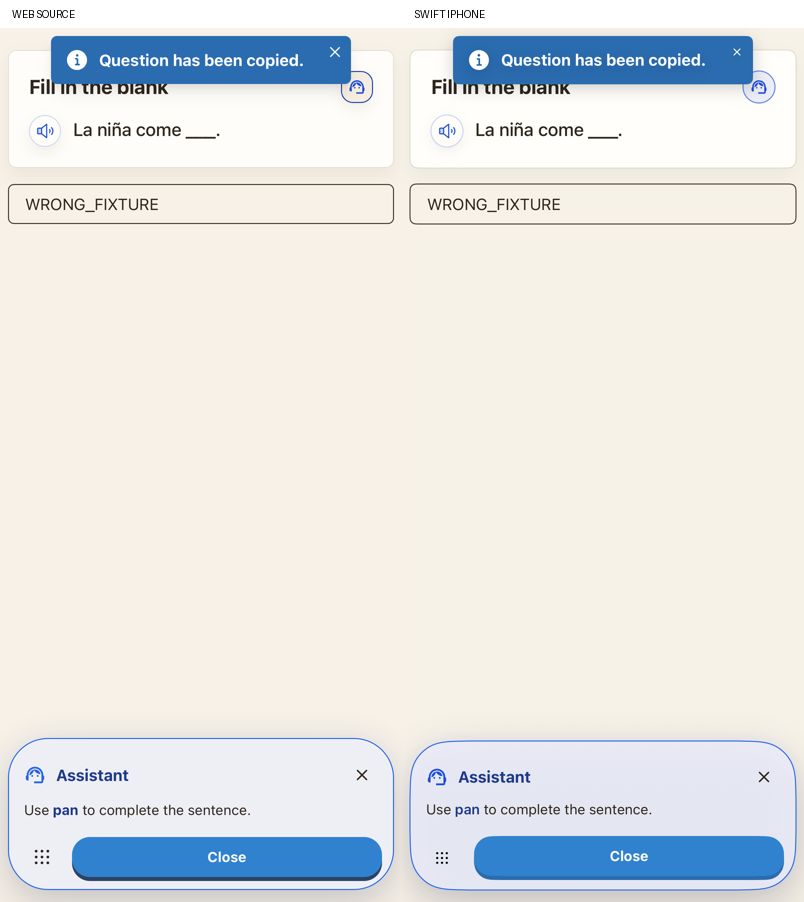
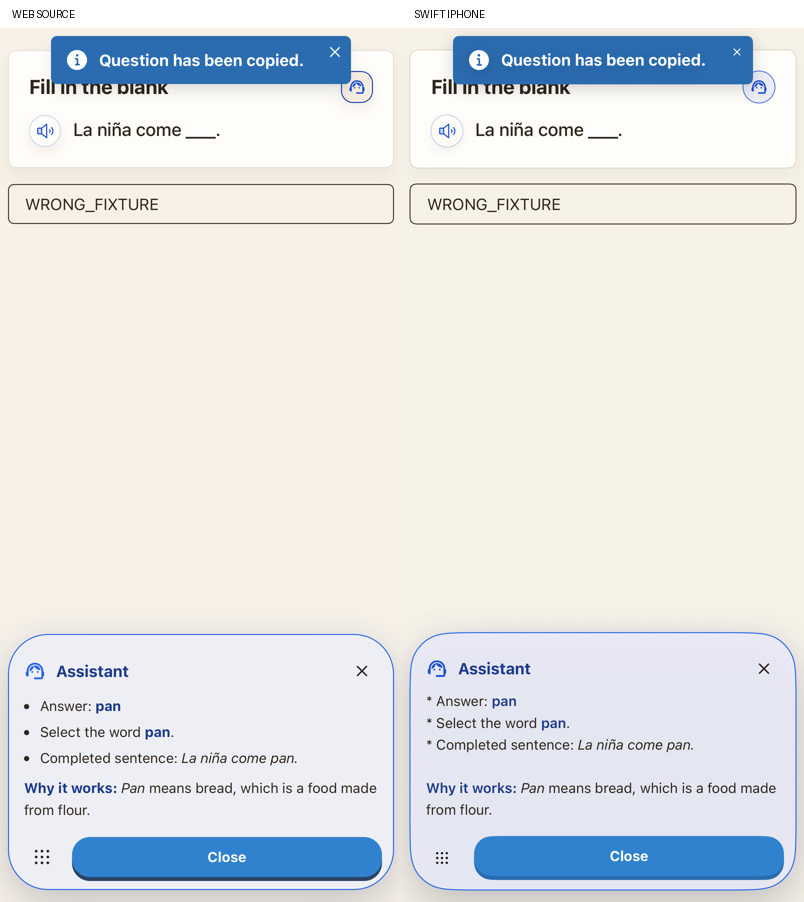
Verify assistance rendering with exercise-specific provider replies

diff --git a/Tests/PiyaliAppTests/StandardBodyReferenceTests.swift b/Tests/PiyaliAppTests/StandardBodyReferenceTests.swift
@@ -23,9 +23,10 @@ import WebKit
         let env=ProcessInfo.processInfo.environment;guard env["PIYALI_OFFLINE_TESTS"] == "1",env["PIYALI_REFERENCE_PREVIEW_TESTS"] == "1",UUID(uuidString:env["PIYALI_TEST_IDENTITY_SCOPE"] ?? "") != nil else{throw XCTSkip("Isolated source preview required")}
         let url=try XCTUnwrap(Bundle(for:Self.self).url(forResource:"standard-bodies",withExtension:"json")),samples=try JSONDecoder().decode(Piyali.JSONValue.self,from:Data(contentsOf:url)),app=AppModel(progressService:StandardReferenceNoCloud());try app.identity.create();defer{try? app.identity.disconnect()};app.signedIn=true;app.subscription.bind(app.identity)
         let curriculum=try ContentLibrary.load([String:[LearningUnit]].self,name:"curriculum-es"),lesson=try XCTUnwrap(curriculum["Pre-A1"]?.first?.lessons.first)
+        let liveURL=try XCTUnwrap(Bundle(for:Self.self).url(forResource:"standard-help-live",withExtension:"json")),live=try JSONDecoder().decode(Piyali.JSONValue.self,from:Data(contentsOf:liveURL))
         for(module,variant,state,language)in [(PracticeRecipeModule.grammar,"fill","assistant","en"),(.vocabulary,"fill","assistant","ar"),(.grammar,"match","assistant","ar"),(.vocabulary,"ma-buttons","explanation","en")]{
             app.learner=LearnerState();app.learner.target="es";app.learner.support=language;app.learner.onboardingComplete=true;app.activityFooter=nil;app.activityFooterHeight=0
-            let text=language == "ar" ? "استخدم **pan** لإكمال الجملة.":"Use **pan** to complete the sentence.",sample=samples[module.rawValue][variant],q=try PracticeQuestion(module:module,kind:sample["kind"].string,payload:sample["question"],options:.object(["cefrLevel":.string("A1")]),target:"es",support:language);var run=PracticeRun(question:q,lessonID:lesson.id,lessonLevel:"Pre-A1",response:sample["responses"]["partial"]);if q.kind == "match"{run.rightOrder=[2,0,1]};if state == "explanation"{run.correct=false;run.lastMissedAnswer=run.answerText;run.lastMissedResponse=run.response};app.learner.savePractice(run)
+            let key=module.rawValue+" "+variant+" "+state+" "+language,text=live["outputs"][key].string.isEmpty ? "استخدم **pan** لإكمال الجملة.":live["outputs"][key].string,sample=samples[module.rawValue][variant],q=try PracticeQuestion(module:module,kind:sample["kind"].string,payload:sample["question"],options:.object(["cefrLevel":.string("A1")]),target:"es",support:language);var run=PracticeRun(question:q,lessonID:lesson.id,lessonLevel:"Pre-A1",response:sample["responses"]["partial"]);if q.kind == "match"{run.rightOrder=[2,0,1]};if state == "explanation"{run.correct=false;run.lastMissedAnswer=run.answerText;run.lastMissedResponse=run.response};app.learner.savePractice(run)
             let helper=PracticeAssistanceController(writer:{_,_ in text}),encoded=try XCTUnwrap(text.addingPercentEncoding(withAllowedCharacters:.urlQueryAllowed.subtracting(CharacterSet(charactersIn:"&+"))));try await compare(name:"\(module.rawValue) \(variant) \(state) \(language)",query:"module=\(module.rawValue)&variant=\(variant)&state=\(state)&language=\(language)&text=\(encoded)&toast=\(state == "assistant" && q.kind != "match" ? "1":"0")",language:language,root:AnyView(StandardReferenceHost(module:module,lesson:lesson,assistance:helper).environmentObject(app).task{try? await Task.sleep(for:.milliseconds(150));if state == "assistant"{helper.ask(app,run:run)}else{helper.explain(app,run:run)}}));helper.clear()
         }
     }

diff --git a/docs/VALIDATION.md b/docs/VALIDATION.md
@@ -6,9 +6,11 @@ Original standard assistance correction (2026-10-27): the final focused Core sel
 
 `PiyaliStandardHelpLive1.xcresult` passes **four native provider streams (65.948s)**: original English Fill help and MA explanation, Arabic matching help and MC explanation. Actual isolated Firebase identity, App Check and configured native providers are used. Arabic output and streamed chunks are checked; the disposable identity is freshly authenticated before deletion and its local key is removed. No learner-progress writes, public relay publications or microphone capture occur. Four bounded public outputs are retained in `docs/reference/standard-help-live.json`. This precedes the final preference wiring; its default-on requests are unchanged.
 
-Final paired images are `docs/native/standard-help-<module>-<variant>-<state>-<language>.png`; measured source geometry is `docs/reference/standard-help-geometry.json`. Source actual legacy JSX, help/explanation rails and original Chakra copy-toast function are mounted with controlled public response text. Only the source toast lifetime is extended for a stable capture; the native controller retains the original 1.2-second duration. Source/provider/clipboard side effects are inert in the web fixture. Fresh WebKit storage/theme/runtime-error checks remain; an unpainted source snapshot now receives bounded retries and is rejected if still blank. The notice’s centered 300-point minimum, source text/row size, color and physical control order in RTL are restored. Precise glyph, shadow, feedback geometry and broader locale/device behavior remain open.
+The assistance paired images are `docs/native/standard-help-<module>-<variant>-<state>-<language>.png`; measured source geometry is `docs/reference/standard-help-geometry.json`. Source actual legacy JSX, help/explanation rails and original Chakra copy-toast function are mounted with controlled public response text. Only the source toast lifetime is extended for a stable capture; the native controller retains the original 1.2-second duration. Source/provider/clipboard side effects are inert in the web fixture. Fresh WebKit storage/theme/runtime-error checks remain; an unpainted source snapshot now receives bounded retries and is rejected if still blank. The notice’s centered 300-point minimum, source text/row size, color and physical control order in RTL are restored. Precise glyph, shadow, feedback geometry and broader locale/device behavior remain open.
 
 Earlier runs are not final evidence. Help1 passes its eight controllers but fails the UI test’s assumption that every explanation stays visible after edits (88.942s). Inspecting actual source effects confirms that Fill/choice and Vocabulary matching hide wrong feedback after nonempty edits; Grammar matching does not. The native Grammar matching condition and the product expectation are corrected. Reference1 completes but its first English source image is blank, and its native notice is too wide/small and mirrored in RTL. Paint2 fixes those render issues and passes four comparisons (13.847s). Final3 fails compilation because the test assigns the read-only settings snapshot; Final4 uses the actual `changeSettings` API and passes. The source checkout and deployed backend/rules remain unchanged.
+
+`PiyaliStandardHelpContent5.xcresult` passes the **four final exercise-specific comparisons (14.820s)**. Fill help, Arabic matching and MA explanation now render the actual bounded Live1 outputs in both source and native views; the Arabic Fill fixture uses an appropriate public bread hint. These replace the layout-only generic-text images from Final4. The retained provider replies correctly supply pan, both family words and all three greeting pairings. Final canonical images and geometry use Content5; production behavior is unchanged after Final4.
 
 Flashcard loading/deck placement correction (2026-10-27): `PiyaliDeckPlacement1.xcresult` passes **all nine selected checks**. The source/native capture method passes **16 pairs in 53.105s**, covering loading with three cards, loading without a deck, empty with a deck and a correct collected active card in both modules and English/light + Arabic/dark. The native active card no longer contains the extra deck strip. The source loading card and deck below it replace the generic spinner, and the question footer is removed during loading/empty presentation. The actual source component’s loading/empty branches are mounted; production remains native SwiftUI.
 

diff --git a/docs/STANDARD_ASSISTANCE.md b/docs/STANDARD_ASSISTANCE.md
@@ -12,7 +12,7 @@ Feedback visibility follows the source effects: nonempty changed Fill/choice res
 
 Exact Core, controller, product, visual and live-service results are recorded in [validation](VALIDATION.md). Full product parity remains in progress: source TTS/voices/effects, exact motion/typography/feedback geometry, broader locale/device/accessibility and interruption recovery, plus the other feature audit items still need work. Clipboard-notice presentation is separately compared; the four live assistance requests do not verify physical microphone or audio behavior.
 
-Four final paired views and source geometry use Final4. Nine product captures use Help2, before the banner calibration and preference wiring; the final controller checks cover that wiring. The source toast is held open only in the comparison adapter.
+Four final paired views and source geometry use Content5, with actual Live1 exercise-specific replies in three cases and an appropriate public Arabic Fill hint. Final4 retains the final controller/preference checks. Nine product captures use Help2, before the banner calibration and preference wiring; the final controller checks cover that wiring. The source toast is held open only in the comparison adapter.
 
 ![Original source and native Copy All notice and help](native/standard-help-grammar-fill-assistant-en.png)
 
